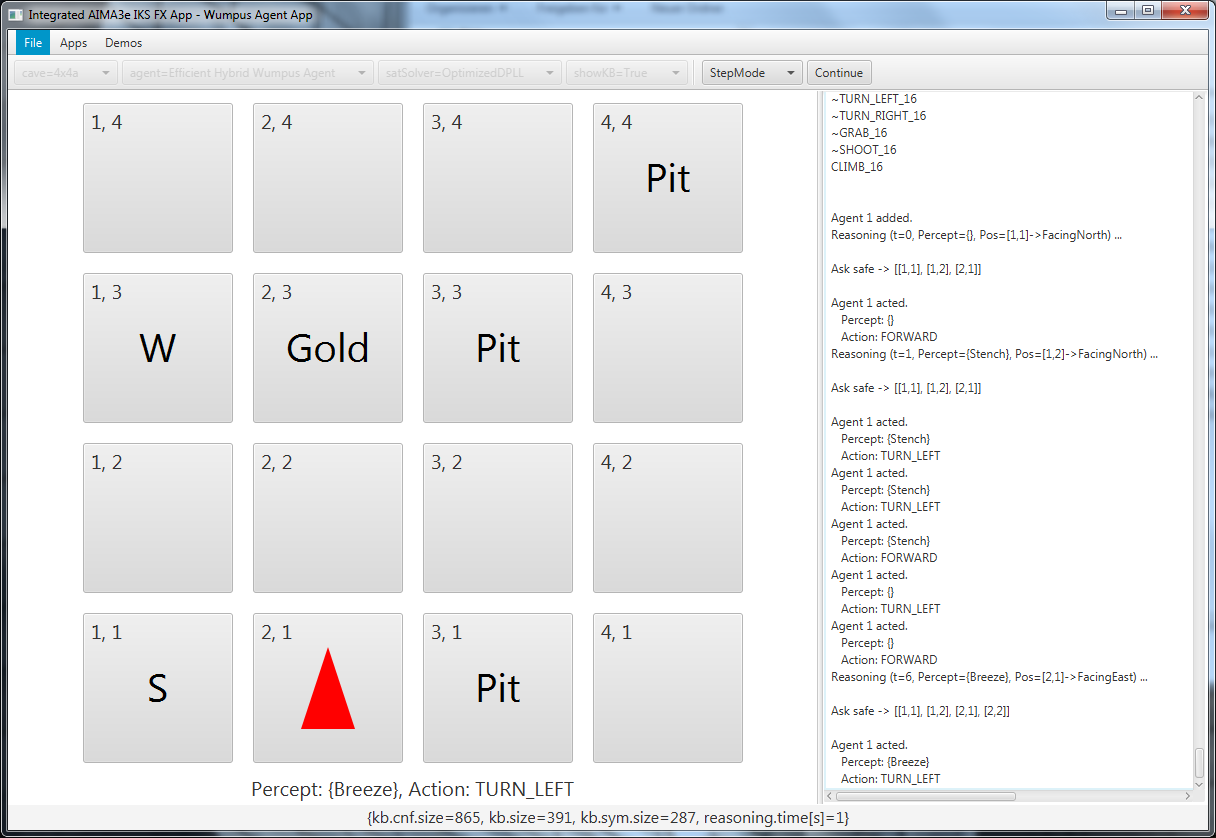
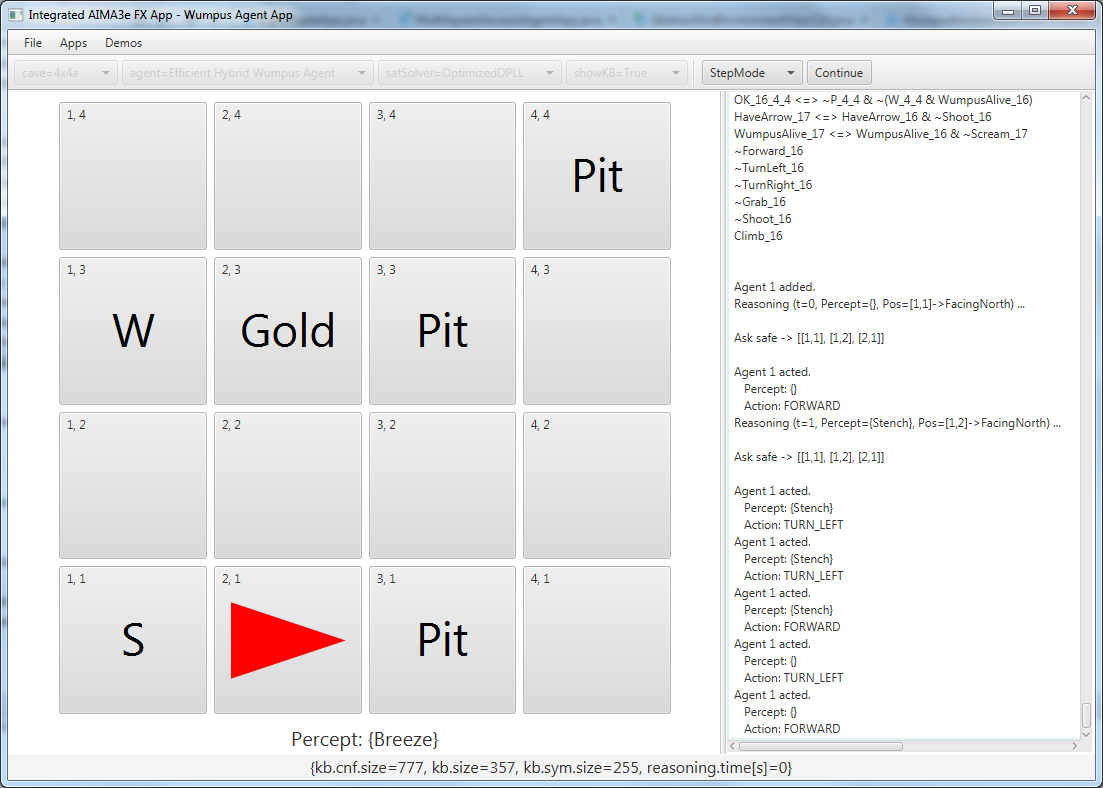
Grid view optimized (current percept visualization), minor fixes.

Changed region(s): [[0.0, 0.0, 1.0, 1.0], [0.0617, 0.1218, 0.1233, 0.1523], [0.5857, 0.6701, 0.6165, 0.7005]]

diff --git a/aima-gui/src/main/java/aima/gui/fx/views/AbstractGridEnvironmentViewCtrl.java b/aima-gui/src/main/java/aima/gui/fx/views/AbstractGridEnvironmentViewCtrl.java
@@ -4,6 +4,7 @@ import aima.core.agent.Action;
 import aima.core.agent.Agent;
 import aima.core.agent.Environment;
 import aima.core.agent.Percept;
+import aima.core.agent.impl.AbstractEnvironment;
 import javafx.application.Platform;
 import javafx.beans.binding.Bindings;
 import javafx.beans.property.IntegerProperty;
@@ -20,13 +21,13 @@ import java.util.function.ToIntFunction;
 
 /**
  * Provides base functionality for implementing views for environments which are based on a grid world.
- * Square (1, 1) is bottom left.
+ * Square (1, 1) is bottom left. Environments are expected to be derived from {@link AbstractEnvironment}.
  *
  * @author Ruediger Lunde
  */
 public abstract class AbstractGridEnvironmentViewCtrl extends SimpleEnvironmentViewCtrl {
 
-    protected Label actionLabel = new Label();
+    protected Label perceptLabel = new Label();
     protected double fontSizeFactor = 0.3;
     protected boolean isEditingEnabled; // edit cave only after initialization, not during agent simulation!
     protected IntegerProperty xDimension = new SimpleIntegerProperty(-1);
@@ -52,17 +53,17 @@ public abstract class AbstractGridEnvironmentViewCtrl extends SimpleEnvironmentV
         envStateView.setMinWidth(0.0);
         envStateView.setCenter(gridPane);
         squareSize.bind(Bindings.min(envStateView.widthProperty().subtract(20).divide(xDimension),
-                envStateView.heightProperty().subtract(20).subtract(actionLabel.heightProperty()).divide(yDimension)));
+                envStateView.heightProperty().subtract(20).subtract(perceptLabel.heightProperty()).divide(yDimension)));
         squareSize.addListener((obs, o, n) -> updateFontSize());
         gridPane.maxWidthProperty().bind(squareSize.multiply(xDimension));
         gridPane.maxHeightProperty().bind(squareSize.multiply(yDimension));
         gridPane.vgapProperty().bind(squareSize.divide(20));
         gridPane.hgapProperty().bind(squareSize.divide(20));
 
-        actionLabel.setMaxWidth(Double.MAX_VALUE);
-        actionLabel.setAlignment(Pos.CENTER);
-        actionLabel.setFont(Font.font(20));
-        envStateView.setBottom(actionLabel);
+        perceptLabel.setMaxWidth(Double.MAX_VALUE);
+        perceptLabel.setAlignment(Pos.CENTER);
+        perceptLabel.setFont(Font.font(20));
+        envStateView.setBottom(perceptLabel);
     }
 
     /** (1, 1) is bottom left. */
@@ -73,6 +74,8 @@ public abstract class AbstractGridEnvironmentViewCtrl extends SimpleEnvironmentV
     @Override
     public void initialize(Environment env) {
         this.env = env;
+        if (!(env instanceof AbstractEnvironment))
+            throw new IllegalStateException("This view expects environments to be derived from AbstractEnvironment.");
         updateDimensions();
         super.initialize(env);
         isEditingEnabled = true;
@@ -123,12 +126,21 @@ public abstract class AbstractGridEnvironmentViewCtrl extends SimpleEnvironmentV
         }
     }
 
-    /** Can be called from any thread. */
+    /**
+     * Can be called from every thread.
+     */
+    @Override
+    public void agentAdded(Agent agent, Environment source) {
+        super.agentAdded(agent, source);
+        updatePerceptLabel(agent);
+    }
+
+    /** Can be called from every thread. */
     @Override
     public void agentActed(Agent agent, Percept percept, Action action, Environment source) {
         super.agentActed(agent, percept, action, source);
         isEditingEnabled = false; // never change the environment when the agent has started his job.
-        Platform.runLater(() -> actionLabel.setText("Percept: " + percept + ", Action: " + action));
+        updatePerceptLabel(agent);
     }
 
     /** Updates the view. */
@@ -136,8 +148,23 @@ public abstract class AbstractGridEnvironmentViewCtrl extends SimpleEnvironmentV
     protected final void updateEnvStateView(Environment env) {
         if (this.env != env)
             throw new IllegalStateException("Environment can only be changed during initialization.");
-        actionLabel.setText("");
+        updatePerceptLabel(null);
         update();
+    }
+
+    /** Updates the percept label with the current percept of the agent. Can be called from every thread. */
+    private void updatePerceptLabel(Agent agent) {
+        String agentInfo = null;
+        Percept percept = null;
+        if (agent != null) {
+            agentInfo = env.getAgents().size() > 1 ? " (A" + (env.getAgents().indexOf(agent) + 1) + ")" : "";
+            percept = ((AbstractEnvironment) env).getPerceptSeenBy(agent);
+        }
+        String txt = (agent != null) ? "Percept" + agentInfo + ": " + percept : "";
+        if (Platform.isFxApplicationThread())
+            perceptLabel.setText(txt);
+        else
+            Platform.runLater(() -> perceptLabel.setText(txt));
     }
 
     /**
@@ -151,8 +178,7 @@ public abstract class AbstractGridEnvironmentViewCtrl extends SimpleEnvironmentV
      * @param x the x coordinate of the button (1 = left).
      * @param y the y coordinate of the button (1 = bottom).
      */
-    protected void onEdit(int x, int y) {
-    }
+    protected void onEdit(int x, int y) {}
 
 
     /**

diff --git a/aima-core/src/main/java/aima/core/environment/wumpusworld/WumpusEnvironment.java b/aima-core/src/main/java/aima/core/environment/wumpusworld/WumpusEnvironment.java
@@ -19,10 +19,12 @@ public class WumpusEnvironment extends AbstractEnvironment {
     private WumpusCave cave;
     private boolean isWumpusAlive = true;
     private boolean isGoldGrabbed;
+    private boolean screamNext;
     private boolean scream;
-    /** We assume that only one agent is added to the environment! */
-    private boolean hasArrow =true;
+    // We assume that only one agent is added to the environment!
+    private boolean bumpNext;
     private boolean bump;
+    private boolean hasArrow =true;
     private Map<Agent, AgentPosition> agentPositions = new HashMap<>();
 
     public WumpusEnvironment(WumpusCave cave) {
@@ -47,8 +49,17 @@ public class WumpusEnvironment extends AbstractEnvironment {
 
     @Override
     public void addAgent(Agent agent) {
-        super.addAgent(agent);
         agentPositions.put(agent, cave.getStart());
+        super.addAgent(agent);
+    }
+
+    @Override
+    public void step() {
+        super.step();
+        bump = bumpNext;
+        scream = screamNext;
+        screamNext = false;
+        bumpNext = false;
     }
 
     @Override
@@ -58,7 +69,7 @@ public class WumpusEnvironment extends AbstractEnvironment {
             AgentPosition newPos = cave.moveForward(pos);
             agentPositions.put(agent, newPos);
             if (newPos.equals(pos))
-                bump = true;
+                bumpNext = true;
             else if (cave.isPit(newPos.getRoom()) || newPos.getRoom().equals(cave.getWumpus()) && isWumpusAlive)
                 agent.setAlive(false);
         } else if (action == WumpusAction.TURN_LEFT) {
@@ -71,7 +82,7 @@ public class WumpusEnvironment extends AbstractEnvironment {
         } else if (action == WumpusAction.SHOOT) {
             if (hasArrow && isAgentFacingWumpus(pos)) {
                 isWumpusAlive = false;
-                scream = true;
+                screamNext = true;
                 hasArrow = false;
             }
         } else if (action == WumpusAction.CLIMB) {
@@ -110,14 +121,10 @@ public class WumpusEnvironment extends AbstractEnvironment {
         }
         if (pos.getRoom().equals(cave.getGold()))
             result.setGlitter();
-        if (bump) {
+        if (bump)
             result.setBump();
-            bump = false;
-        }
-        if (scream) {
+        if (scream)
             result.setScream();
-            scream = false;
-        }
         return result;
     }
 }

diff --git a/aima-gui/src/main/java/aima/gui/fx/views/WumpusEnvironmentViewCtrl.java b/aima-gui/src/main/java/aima/gui/fx/views/WumpusEnvironmentViewCtrl.java
@@ -72,10 +72,8 @@ public class WumpusEnvironmentViewCtrl extends AbstractGridEnvironmentViewCtrl {
         // visualize agent positions
         for (Agent agent : wEnv.getAgents()) {
             AgentPosition pos = wEnv.getAgentPosition(agent);
-            if (pos != null) { // hm...
-                Pane pane = getSquareButton(pos.getX(), pos.getY()).getPane();
-                pane.getChildren().add(getAgentSymbol(agent, pos));
-            }
+            Pane pane = getSquareButton(pos.getX(), pos.getY()).getPane();
+            pane.getChildren().add(getAgentSymbol(agent, pos));
         }
     }
 
@@ -84,7 +82,7 @@ public class WumpusEnvironmentViewCtrl extends AbstractGridEnvironmentViewCtrl {
         WumpusCave cave = ((WumpusEnvironment) env).getCave();
         Room room = new Room(x, y);
         if (!isEditingEnabled)
-            actionLabel.setText("Cave can only be edited after initialization.");
+            perceptLabel.setText("Cave can only be edited after initialization.");
         else if (!room.equals(cave.getStart().getRoom()) && !room.equals(cave.getGold())) {
             if (cave.isPit(room)) {
                 if (room.equals(cave.getWumpus()))

diff --git a/aima-gui/src/main/java/aima/gui/fx/views/VacuumEnvironmentViewCtrl.java b/aima-gui/src/main/java/aima/gui/fx/views/VacuumEnvironmentViewCtrl.java
@@ -102,7 +102,7 @@ public class VacuumEnvironmentViewCtrl extends AbstractGridEnvironmentViewCtrl {
     @Override
     protected void onEdit(int x, int y) {
         if (!isEditingEnabled)
-            actionLabel.setText("Environment can only be edited after initialization.");
+            perceptLabel.setText("Environment can only be edited after initialization.");
         else {
             VacuumEnvironment vEnv = (VacuumEnvironment) env;
             VacuumEnvironmentState state = (VacuumEnvironmentState) vEnv.getCurrentState();
